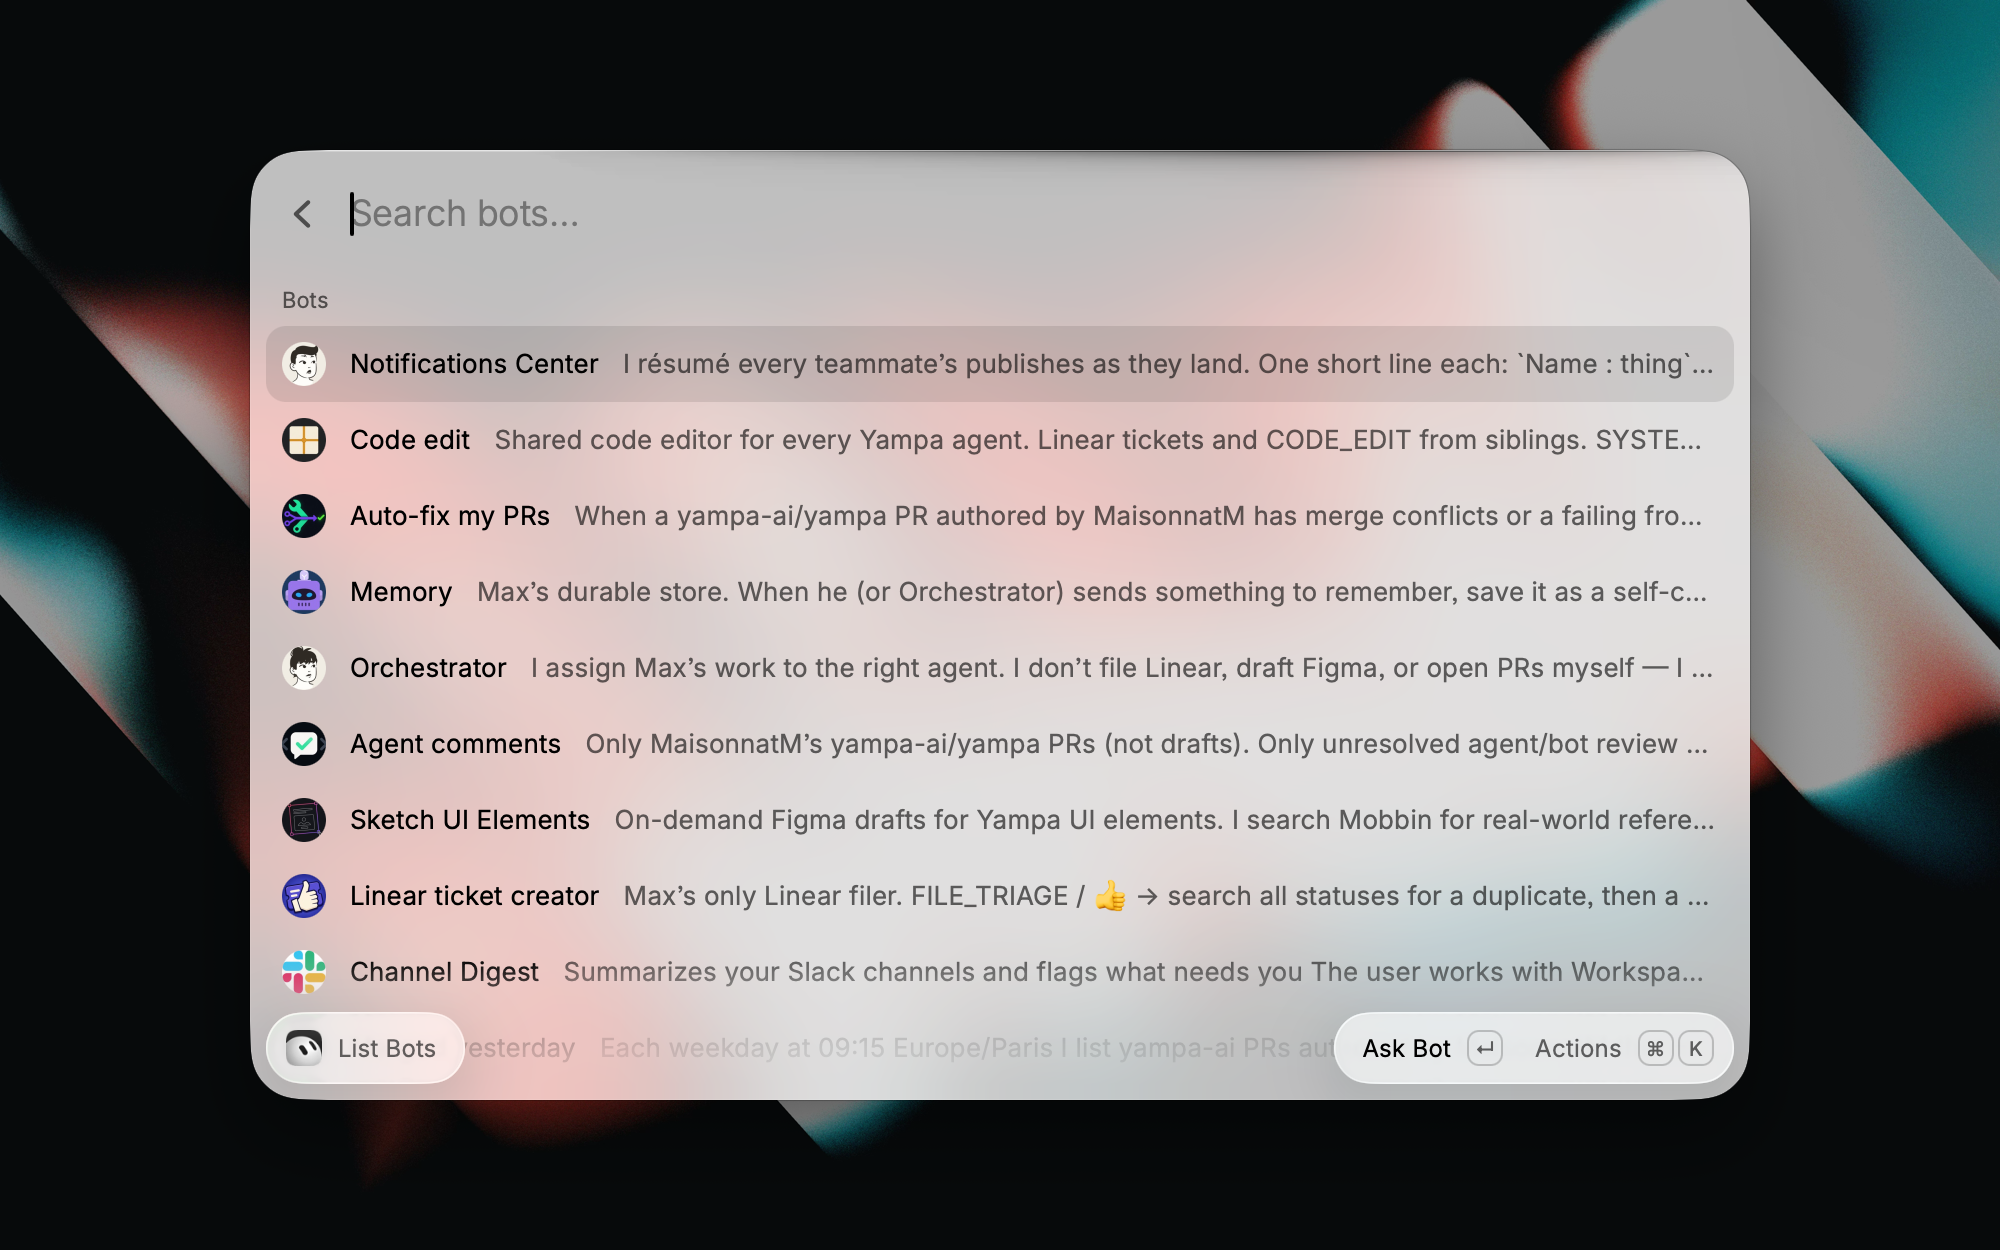
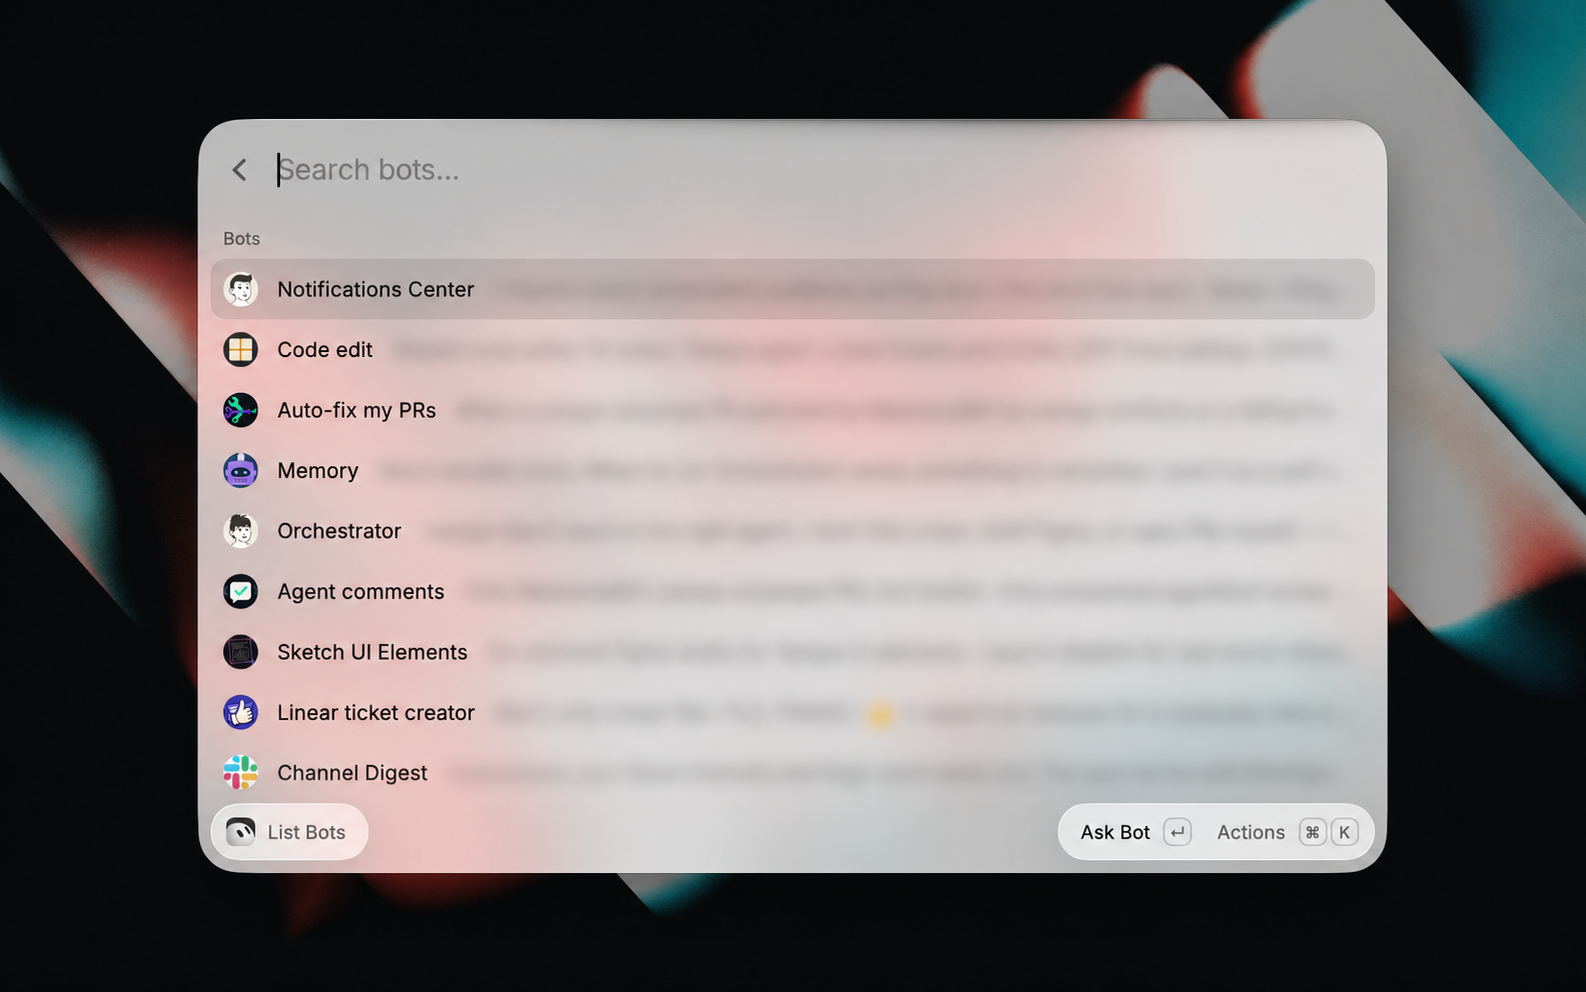
Bind AI send to the confirmed recipient and rename GatewayCredentials.
Confirmation stores the resolved agent id in Cache. Execute sends to that id instead of rematching by name. Domain gateway config is GatewayCredentials so getPreferenceValues uses the generated Preferences type.

diff --git a/src/tools/send-to-bot.test.ts b/src/tools/send-to-bot.test.ts
@@ -1,0 +1,67 @@
+import { afterEach, beforeEach, describe, expect, it, vi } from "vitest";
+import { Bot, parseAgentId } from "../lib/types";
+
+const { resolveToolBot, sendPrompt } = vi.hoisted(() => ({
+  resolveToolBot: vi.fn(),
+  sendPrompt: vi.fn(),
+}));
+
+vi.mock("../lib/tool-roster", () => ({
+  resolveToolBot,
+}));
+
+vi.mock("../lib/gateway", () => ({
+  sendPrompt,
+}));
+
+import { takePendingSend } from "../lib/pending-send";
+import tool, { confirmation } from "./send-to-bot";
+
+function bot(overrides: { id: string; name: string } & Partial<Omit<Bot, "id" | "name">>): Bot {
+  const id = parseAgentId(overrides.id);
+  if (!id.ok) {
+    throw new Error("invalid test id");
+  }
+  return {
+    id: id.value,
+    name: overrides.name,
+    title: overrides.title ?? "",
+    description: overrides.description ?? "",
+    isGroup: overrides.isGroup ?? false,
+    isHidden: overrides.isHidden ?? false,
+    status: overrides.status ?? { kind: "idle" },
+    lastPreview: overrides.lastPreview ?? null,
+    avatarColor: overrides.avatarColor ?? null,
+    avatarHash: overrides.avatarHash ?? null,
+  };
+}
+
+const piper = bot({ id: "a1", name: "Piper" });
+const otherPiper = bot({ id: "a9", name: "Piper" });
+const input = { bot: "Piper", prompt: "Summarize this week's errors" };
+
+describe("send-to-bot", () => {
+  beforeEach(() => {
+    takePendingSend(input);
+    resolveToolBot.mockResolvedValue(piper);
+    sendPrompt.mockResolvedValue({ ok: true, value: { accepted: true } });
+  });
+
+  afterEach(() => {
+    vi.clearAllMocks();
+  });
+
+  it("sends to the confirmed id when a later resolve matches someone else", async () => {
+    await confirmation(input);
+    resolveToolBot.mockResolvedValue(otherPiper);
+
+    await expect(tool(input)).resolves.toBe("Sent task to Piper.");
+    expect(sendPrompt).toHaveBeenCalledWith({ agentId: piper.id, prompt: input.prompt });
+    expect(resolveToolBot).toHaveBeenCalledTimes(1);
+  });
+
+  it("refuses to send without a confirmation bind", async () => {
+    await expect(tool(input)).rejects.toThrow("Confirm the recipient before sending.");
+    expect(sendPrompt).not.toHaveBeenCalled();
+  });
+});

diff --git a/src/lib/pending-send.test.ts b/src/lib/pending-send.test.ts
@@ -1,0 +1,44 @@
+import { beforeEach, describe, expect, it } from "vitest";
+import { takePendingSend, writePendingSend } from "./pending-send";
+import { parseAgentId } from "./types";
+
+function agentId(raw: string) {
+  const parsed = parseAgentId(raw);
+  if (!parsed.ok) {
+    throw new Error("invalid test id");
+  }
+  return parsed.value;
+}
+
+const piper = { id: agentId("a1"), name: "Piper" };
+const scout = { id: agentId("a2"), name: "Scout" };
+const sendPiper = { bot: "Piper", prompt: "Summarize this week's errors" };
+
+describe("pending send bind", () => {
+  beforeEach(() => {
+    takePendingSend(sendPiper);
+    takePendingSend({ bot: "Scout", prompt: sendPiper.prompt });
+    takePendingSend({ bot: " Piper ", prompt: ` ${sendPiper.prompt} ` });
+  });
+
+  it("returns the confirmed recipient once", () => {
+    writePendingSend({ ...sendPiper, target: piper });
+
+    expect(takePendingSend(sendPiper)).toEqual(piper);
+    expect(takePendingSend(sendPiper)).toBeNull();
+  });
+
+  it("does not mix two pending sends", () => {
+    writePendingSend({ ...sendPiper, target: piper });
+    writePendingSend({ bot: "Scout", prompt: sendPiper.prompt, target: scout });
+
+    expect(takePendingSend({ bot: "Scout", prompt: sendPiper.prompt })).toEqual(scout);
+    expect(takePendingSend(sendPiper)).toEqual(piper);
+  });
+
+  it("treats trimmed bot and prompt as the same confirmation", () => {
+    writePendingSend({ bot: " Piper ", prompt: ` ${sendPiper.prompt} `, target: piper });
+
+    expect(takePendingSend(sendPiper)).toEqual(piper);
+  });
+});

diff --git a/src/lib/credentials-file.ts b/src/lib/credentials-file.ts
@@ -1,7 +1,7 @@
 import { homedir } from "node:os";
 import { join } from "node:path";
 import { lstatSync, readFileSync } from "node:fs";
-import { Preferences, Result, err, ok } from "./types";
+import { GatewayCredentials, Result, err, ok } from "./types";
 
 export type CredentialsFileError =
   | { kind: "missing" }
@@ -38,7 +38,7 @@ function isEnoent(error: unknown): boolean {
   return error.code === "ENOENT";
 }
 
-export function parseGatewayEnv(text: string): Result<Preferences, CredentialsFileError> {
+export function parseGatewayEnv(text: string): Result<GatewayCredentials, CredentialsFileError> {
   let gatewayUrl = "";
   let gatewayToken = "";
 
@@ -70,7 +70,7 @@ export function parseGatewayEnv(text: string): Result<Preferences, CredentialsFi
   return ok({ gatewayUrl, gatewayToken });
 }
 
-export function loadGatewayCredentialsFile(filePath: string): Result<Preferences, CredentialsFileError> {
+export function loadGatewayCredentialsFile(filePath: string): Result<GatewayCredentials, CredentialsFileError> {
   try {
     const stat = lstatSync(filePath);
     if (stat.isSymbolicLink() || !stat.isFile()) {
@@ -89,6 +89,6 @@ export function loadGatewayCredentialsFile(filePath: string): Result<Preferences
   }
 }
 
-export function loadDefaultGatewayCredentialsFile(): Result<Preferences, CredentialsFileError> {
+export function loadDefaultGatewayCredentialsFile(): Result<GatewayCredentials, CredentialsFileError> {
   return loadGatewayCredentialsFile(credentialsFilePath());
 }

diff --git a/src/tools/send-to-bot.ts b/src/tools/send-to-bot.ts
@@ -1,5 +1,6 @@
 import { Tool } from "@raycast/api";
 import { sendPrompt } from "../lib/gateway";
+import { takePendingSend, writePendingSend } from "../lib/pending-send";
 import { resolveToolBot } from "../lib/tool-roster";
 import { gatewayErrorMessage } from "../lib/types";
 
@@ -21,6 +22,11 @@ type Input = {
 
 export const confirmation: Tool.Confirmation<Input> = async (input) => {
   const target = await resolveToolBot(input.bot);
+  writePendingSend({
+    bot: input.bot,
+    prompt: input.prompt,
+    target: { id: target.id, name: target.name },
+  });
   return {
     message: `Send this task to ${target.name}?`,
     info: [
@@ -31,11 +37,15 @@ export const confirmation: Tool.Confirmation<Input> = async (input) => {
 };
 
 export default async function tool(input: Input) {
-  const target = await resolveToolBot(input.bot);
-  const sendResult = await sendPrompt({ agentId: target.id, prompt: input.prompt.trim() });
+  const pending = takePendingSend({ bot: input.bot, prompt: input.prompt });
+  if (pending === null) {
+    throw new Error("Confirm the recipient before sending.");
+  }
+
+  const sendResult = await sendPrompt({ agentId: pending.id, prompt: input.prompt.trim() });
   if (!sendResult.ok) {
     throw new Error(gatewayErrorMessage(sendResult.error));
   }
 
-  return `Sent task to ${target.name}.`;
+  return `Sent task to ${pending.name}.`;
 }

diff --git a/src/lib/pending-send.ts b/src/lib/pending-send.ts
@@ -1,0 +1,52 @@
+import { Cache } from "@raycast/api";
+import { AgentId, parseAgentId } from "./types";
+
+const cache = new Cache({ namespace: "send-to-bot" });
+
+export type PendingSend = {
+  id: AgentId;
+  name: string;
+};
+
+function pendingKey(args: { bot: string; prompt: string }): string {
+  return JSON.stringify({ bot: args.bot.trim(), prompt: args.prompt.trim() });
+}
+
+function parsePendingSend(raw: unknown): PendingSend | null {
+  if (typeof raw !== "object" || raw === null) {
+    return null;
+  }
+  if (!("id" in raw) || !("name" in raw)) {
+    return null;
+  }
+
+  const id = parseAgentId(raw.id);
+  if (!id.ok) {
+    return null;
+  }
+  if (typeof raw.name !== "string" || raw.name.trim().length === 0) {
+    return null;
+  }
+
+  return { id: id.value, name: raw.name };
+}
+
+export function writePendingSend(args: { bot: string; prompt: string; target: PendingSend }): void {
+  cache.set(pendingKey(args), JSON.stringify({ id: args.target.id, name: args.target.name }));
+}
+
+export function takePendingSend(args: { bot: string; prompt: string }): PendingSend | null {
+  const key = pendingKey(args);
+  const raw = cache.get(key);
+  cache.remove(key);
+  if (raw === undefined) {
+    return null;
+  }
+
+  try {
+    const parsed: unknown = JSON.parse(raw);
+    return parsePendingSend(parsed);
+  } catch {
+    return null;
+  }
+}

diff --git a/src/lib/gateway-config.ts b/src/lib/gateway-config.ts
@@ -1,7 +1,7 @@
 import { CredentialsFileError } from "./credentials-file";
-import { GatewayError, Preferences, Result, err, ok } from "./types";
+import { GatewayCredentials, GatewayError, Result, err, ok } from "./types";
 
-function isGatewayConfigured(prefs: Preferences): boolean {
+function isGatewayConfigured(prefs: GatewayCredentials): boolean {
   return prefs.gatewayUrl.length > 0 && prefs.gatewayToken.length > 0;
 }
 
@@ -25,9 +25,9 @@ function credentialsFileMessage(error: CredentialsFileError): string {
 }
 
 export function mergeGatewayCredentials(
-  raycast: Preferences,
-  file: Result<Preferences, CredentialsFileError>,
-): Result<Preferences, GatewayError> {
+  raycast: GatewayCredentials,
+  file: Result<GatewayCredentials, CredentialsFileError>,
+): Result<GatewayCredentials, GatewayError> {
   if (isGatewayConfigured(raycast)) {
     return ok({
       gatewayUrl: raycast.gatewayUrl.trim(),

diff --git a/src/lib/preferences.ts b/src/lib/preferences.ts
@@ -1,9 +1,9 @@
 import { getPreferenceValues } from "@raycast/api";
 import { loadDefaultGatewayCredentialsFile } from "./credentials-file";
 import { mergeGatewayCredentials } from "./gateway-config";
-import { Preferences, Result, GatewayError } from "./types";
+import { GatewayCredentials, Result, GatewayError } from "./types";
 
-function fromRaycast(): Preferences {
+function fromRaycast(): GatewayCredentials {
   const prefs = getPreferenceValues<Preferences>();
   return {
     gatewayUrl: prefs.gatewayUrl?.trim() ?? "",
@@ -11,6 +11,6 @@ function fromRaycast(): Preferences {
   };
 }
 
-export function resolveGatewayConfig(): Result<Preferences, GatewayError> {
+export function resolveGatewayConfig(): Result<GatewayCredentials, GatewayError> {
   return mergeGatewayCredentials(fromRaycast(), loadDefaultGatewayCredentialsFile());
 }

diff --git a/src/test/raycast-api-stub.ts b/src/test/raycast-api-stub.ts
@@ -23,6 +23,18 @@ export class Cache {
     }
     bucket.set(key, value);
   }
+
+  remove(key: string): boolean {
+    const bucket = cacheStore.get(this.namespace);
+    if (!bucket || !bucket.has(key)) {
+      return false;
+    }
+    return bucket.delete(key);
+  }
+
+  clear(): void {
+    cacheStore.delete(this.namespace);
+  }
 }
 
 export const Image = {

diff --git a/src/lib/types.ts b/src/lib/types.ts
@@ -20,7 +20,7 @@ export type Bot = {
   avatarHash: string | null;
 };
 
-export type Preferences = {
+export type GatewayCredentials = {
   gatewayUrl: string;
   gatewayToken: string;
 };

diff --git a/CHANGELOG.md b/CHANGELOG.md
@@ -9,4 +9,5 @@
 - Copy a bot ID with ⌘⇧C, refresh with ⌘R, and show a HUD after a send
 - Unique name or title fragments resolve to one bot. Ambiguous names stay unsent
 - Raycast AI can list teammates, then send a task once the name is unique
+- An AI send goes to the teammate you confirmed, even if the roster changes
 - Keep the last roster on screen and toast if a refresh fails
